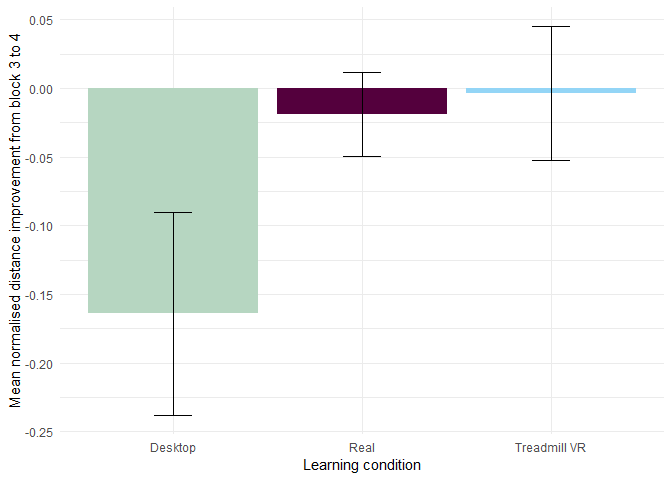
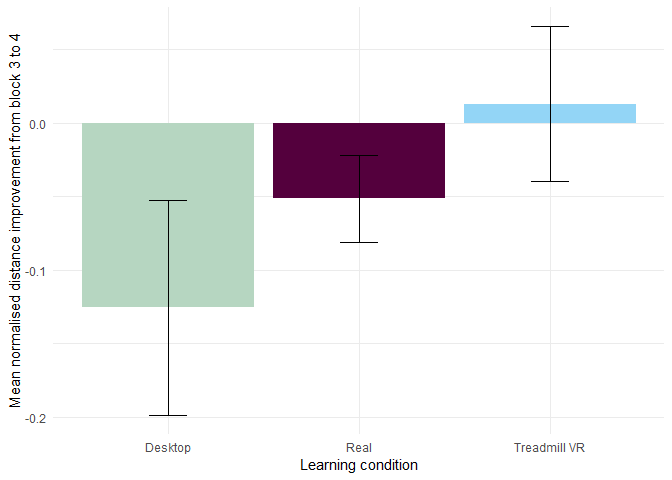
updates results

diff --git a/Report/paper-results.md b/Report/paper-results.md
@@ -9,7 +9,7 @@ Measures
 
 We calculated participants’ walked distance in the building, time spent in each task and number of incorrectly visited doors. The conditions were not perfectly comparable in their measured distance and time, with the VR trials taking a little bit longer in both time and distance than the real world condition. We therefore min-normalised the distance traveled and the time for each task and environment by dividing the measure by any participant's performance for that trial. We calculated all statistics on these normalised measures.
 
-There was no difference between conditions at the start of the experiment in normalised distance (*F*(2, 334)=2.11, *M**S**E* = 18.07, *p* = .123), nor in number errors (*F*(2, 363)=0.10, *M**S**E* = 64.52, *p* = .903), but there is a significant difference in normalised time (*F*(2, 363)=28.57, *M**S**E* = 24.22, *p* &lt; .001)), due to VR taking longer times to get used to (and therefore having longer normalised trial times at the start).
+There was no difference between conditions at the start of the experiment in normalised distance (*F*(2, 323)=1.99, *M**S**E* = 16.13, *p* = .139), nor in number errors (*F*(2, 363)=0.10, *M**S**E* = 64.52, *p* = .903), but there is a significant difference in normalised time (*F*(2, 363)=28.57, *M**S**E* = 24.22, *p* &lt; .001)), due to VR taking longer times to get used to (and therefore having longer normalised trial times at the start). We removed distance measurements larger than 3 standard deviations from the mean.
 
 Participants
 ------------
@@ -19,47 +19,49 @@ A total of 61 (M = 20.4, SD = 2.2) undergraduate students at UC Davis particiapt
 Results
 =======
 
-First we wanted to assess that there is going to be some level of transfer in all conditions. If we would assume no transfer to happen, we should observe same performance in the real world testing in 1st, 2nd and 3rd block after the switch to be similar in performance as the 1st, 2nd and 3rd block in the real world learning group. But all conditions (except desktop in distance) show better performance after the switch (see table XXX) than in the first trial, suggesting some level of transfer happening in all learning conditions.
+First we wanted to assess that there is going to be some level of transfer in all conditions. If we would assume no transfer to happen, we should observe same performance in the real world testing in 1st, 2nd and 3rd block after the switch to be similar in performance as the 1st, 2nd and 3rd block in the real world learning group. But all conditions show better performance after the switch (see table XXX) than in the first trial, suggesting some level of transfer happening in all learning conditions.
 
 | Learning condition | Distance improvement                                                         | Errors improvement                                                               |
 |:-------------------|:-----------------------------------------------------------------------------|:---------------------------------------------------------------------------------|
-| Real               | *M*<sub>*d*</sub> = 1.93, 95% CI \[1.19, 2.67\], *t*(20)=5.43, *p* &lt; .001 | *M*<sub>*d*</sub> = 13.55, 95% CI \[11.88, 15.22\], *t*(21)=16.87, *p* &lt; .001 |
-| Desktop            | *M*<sub>*d*</sub> = 1.09, 95% CI \[ − 0.10, 2.29\], *t*(18)=1.93, *p* = .070 | *M*<sub>*d*</sub> = 10.77, 95% CI \[8.18, 13.37\], *t*(18)=8.72, *p* &lt; .001   |
-| Treadmill VR       | *M*<sub>*d*</sub> = 2.49, 95% CI \[1.45, 3.53\], *t*(19)=5.00, *p* &lt; .001 | *M*<sub>*d*</sub> = 12.12, 95% CI \[10.62, 13.61\], *t*(19)=16.96, *p* &lt; .001 |
+| Real               | *M*<sub>*d*</sub> = 1.78, 95% CI \[1.18, 2.39\], *t*(20)=6.13, *p* &lt; .001 | *M*<sub>*d*</sub> = 13.55, 95% CI \[11.88, 15.22\], *t*(21)=16.87, *p* &lt; .001 |
+| Desktop            | *M*<sub>*d*</sub> = 1.52, 95% CI \[0.55, 2.49\], *t*(18)=3.30, *p* = .004    | *M*<sub>*d*</sub> = 10.77, 95% CI \[8.18, 13.37\], *t*(18)=8.72, *p* &lt; .001   |
+| Treadmill VR       | *M*<sub>*d*</sub> = 2.34, 95% CI \[1.29, 3.39\], *t*(19)=4.68, *p* &lt; .001 | *M*<sub>*d*</sub> = 12.12, 95% CI \[10.62, 13.61\], *t*(19)=16.96, *p* &lt; .001 |
 
-Looking at the progression in distance improvements and error improvements over the course of the experiment, we can see that all conditions show progressive improvement which is only hindered by the switch in the desktop learning condition (see fig. XXX and fig. XXX), but in the Treadmill condition we see constant improvement unobstructed by the environmrnt switch. ![](paper-results_files/figure-markdown_github/unnamed-chunk-3-1.png)![](paper-results_files/figure-markdown_github/unnamed-chunk-3-2.png)
+Looking at the progression in distance improvements and error improvements over the course of the experiment, we can see that all conditions show progressive improvement which is only hindered by the switch in the desktop learning condition (see fig. XXX and fig. XXX), but in the Treadmill condition we see constant improvement unobstructed by the environment switch. ![](paper-results_files/figure-markdown_github/unnamed-chunk-3-1.png)![](paper-results_files/figure-markdown_github/unnamed-chunk-3-2.png)
 
 Participant's performance in the first pre-switch phase shows different rates of learning rate, demonstrated by an interaction between block bumber and learning condition for error rate performance (see table XX).
+
+**this is a mixed model with id/block id random term. Significance was measuyred with Anova from car package, but I read it is not a good way to measure significance and we shouldn't even use significance in mixed models. I'll check on past cognition papers to see how and if they do it.**
 
 | Predictor                              | Significance for distance improvement | Significance for error improvement |
 |:---------------------------------------|:--------------------------------------|:-----------------------------------|
 | Intercept                              | p &lt; .001                           | p &lt; .001                        |
 | Block number                           | p &lt; .001                           | p &lt; .001                        |
-| Learning condition                     | p = 0.18                              | p = 0.65                           |
-| Block - Learning condition interaction | p = 0.72                              | p &lt; .001                        |
+| Learning condition                     | p = 0.25                              | p = 0.65                           |
+| Block - Learning condition interaction | p = 0.84                              | p &lt; .001                        |
 
 ### After modality switch performance change
 
-We found no significant difference between different modalities in distance performance before the switch (although are marginally significnat suggetsting there might be some difference) *F*(2, 321)=2.88, *M**S**E* = 4.24, *p* = .058, but the error rate in the pre-switch block differs across groups *F*(2, 363)=32.63, *M**S**E* = 22.37, *p* &lt; .001.
+We found significant difference between different modalities in the pre-switch block in distance performance *F*(2, 315)=4.18, *M**S**E* = 3.54, *p* = .016, and the error rate as well *F*(2, 363)=32.63, *M**S**E* = 22.37, *p* &lt; .001.
 
-After the modality switch, we can see a significant difference between distance performance (*F*(2, 295)=3.86, *M**S**E* = 5.50, *p* = .022) and errors as well (*F*(2, 363)=13.15, *M**S**E* = 19.79, *p* &lt; .001), with groups learning on the treadmill or desktop performing worse than those learning in the real world. This difference post-switch is still apparent in the 2nd block after the switch (block 5) in error rate *F*(2, 363)=6.75, *M**S**E* = 6.86, *p* = .001 and marginally in distance *F*(2, 256)=2.87, *M**S**E* = 0.37, *p* = .058. In the last testing block (block 6), we found no differences among the groups in either error rate *F*(2, 363)=1.67, *M**S**E* = 3.33, *p* = .191 nor distance *F*(2, 258)=1.95, *M**S**E* = 0.28, *p* = .144.
+After the modality switch, we can see a significant difference between groups in distance performance (*F*(2, 289)=4.04, *M**S**E* = 2.94, *p* = .019) and errors as well (*F*(2, 363)=13.15, *M**S**E* = 19.79, *p* &lt; .001), with groups learning on the treadmill or desktop performing worse than those learning in the real world. This between group difference is still present in the 2nd block of the second phase (block 5) in error rate *F*(2, 363)=6.75, *M**S**E* = 6.86, *p* = .001 and marginally in distance *F*(2, 253)=5.74, *M**S**E* = 0.18, *p* = .004. In the last testing block (block 6), we found no differences among the groups in either error rate *F*(2, 363)=1.67, *M**S**E* = 3.33, *p* = .191 nor distance *F*(2, 255)=3.21, *M**S**E* = 0.10, *p* = .042.
 
 Mixed effect models with individual random effect show significant effect of the of the learning condition on rate of improvement from pre-switch to post-switch block (See table XXX ).
 
 | Predictor                              | Significance for distance improvement | Significance for error improvement |
 |:---------------------------------------|:--------------------------------------|:-----------------------------------|
-| Intercept                              | p = 0.4                               | p &lt; .001                        |
-| Block number                           | p &lt; .001                           | p &lt; .0.05                       |
-| Learning condition                     | p = 0.08                              | p &lt; .001                        |
-| Block - Learning condition interaction | p = 0.05                              | p &lt; .001                        |
+| Intercept                              | p = 0.73                              | p &lt; .001                        |
+| Block number                           | p = 0.07                              | p &lt; .0.05                       |
+| Learning condition                     | p = 0.17                              | p &lt; .001                        |
+| Block - Learning condition interaction | p = 0.22                              | p &lt; .001                        |
 
 Running separate pairwise t-tests to see individual performance change from pre-switch to post-switch block, we see significant improvement in errors made across all conditions, and marginally significant worsening in distance performance in the desktop condition.
 
 | Learning condition | Distance improvement                                                             | Errors improvement                                                           |
 |:-------------------|:---------------------------------------------------------------------------------|:-----------------------------------------------------------------------------|
-| Real               | *M*<sub>*d*</sub> = −0.02, 95% CI \[ − 0.26, 0.23\], *t*(21)= − 0.16, *p* = .876 | *M*<sub>*d*</sub> = 0.64, 95% CI \[0.12, 1.17\], *t*(21)=2.56, *p* = .018    |
-| Desktop            | *M*<sub>*d*</sub> = −1.13, 95% CI \[ − 2.29, 0.02\], *t*(18)= − 2.06, *p* = .054 | *M*<sub>*d*</sub> = 1.35, 95% CI \[0.19, 2.52\], *t*(18)=2.44, *p* = .025    |
-| Treadmill VR       | *M*<sub>*d*</sub> = −0.03, 95% CI \[ − 0.59, 0.53\], *t*(19)= − 0.11, *p* = .910 | *M*<sub>*d*</sub> = 3.34, 95% CI \[2.17, 4.51\], *t*(19)=5.97, *p* &lt; .001 |
+| Real               | *M*<sub>*d*</sub> = −0.15, 95% CI \[ − 0.41, 0.12\], *t*(21)= − 1.17, *p* = .256 | *M*<sub>*d*</sub> = 0.64, 95% CI \[0.12, 1.17\], *t*(21)=2.56, *p* = .018    |
+| Desktop            | *M*<sub>*d*</sub> = −0.70, 95% CI \[ − 1.53, 0.12\], *t*(18)= − 1.79, *p* = .090 | *M*<sub>*d*</sub> = 1.35, 95% CI \[0.19, 2.52\], *t*(18)=2.44, *p* = .025    |
+| Treadmill VR       | *M*<sub>*d*</sub> = 0.04, 95% CI \[ − 0.55, 0.63\], *t*(19)=0.16, *p* = .877     | *M*<sub>*d*</sub> = 3.34, 95% CI \[2.17, 4.51\], *t*(19)=5.97, *p* &lt; .001 |
 
 We can see that all participants improved in the errors made, but neigher group is significantly worse in the post-switch block in the path travelled (although participants who learned on the desktop performed slightly worse, the significance is only marginal).
 
@@ -69,7 +71,7 @@ To assess the level of performance change form directly before and after the swi
 
 ![](paper-results_files/figure-markdown_github/unnamed-chunk-7-1.png)![](paper-results_files/figure-markdown_github/unnamed-chunk-7-2.png)
 
-Comparing the perfomance change in different conditions using ANOVA, we see marginally significant difference between groups in the distance improvement (*F*(2, 58)=2.77, *M**S**E* = 0.06, *p* = .071), but significant differences in error rate improvement (*F*(2, 49)=6.72, *M**S**E* = 0.13, *p* = .003). This is consistent with the mixed model result which poited at interaction between block and learning condition.
+Comparing the perfomance change in different conditions using ANOVA, we see marginally significant difference between groups in the distance improvement (*F*(2, 58)=1.64, *M**S**E* = 0.06, *p* = .202), but significant differences in error rate improvement (*F*(2, 49)=6.72, *M**S**E* = 0.13, *p* = .003). This is consistent with the mixed model result which poited at interaction between block and learning condition.
 
 Tukey post-hoc tests show significant difference between error rate improvement between the group that learned in the real world and that which learned on the desktop.
 
@@ -81,14 +83,25 @@ Tukey post-hoc tests show significant difference between error rate improvement 
 
 ### Improvement from the pre-switch block to the final block
 
-Assuming the performance platoes around the 6the block, looking at participants performance in the pre-switch block and the last block we can deduce what margin of improvement is still possible. We see that participants learning in the real world no longer improve in error rate *t*(21)=1.26, *p* = .223, but they are continuously imrpoving in distance performance *t*(21)=2.22, *p* = .037.
+Assuming the performance platoes around the 6the block, looking at participants performance in the pre-switch block and the last block we can deduce what margin of improvement is still possible. We see that participants learning in the real world no longer improve in error rate after the 3rd block *t*(21)=1.26, *p* = .223, but they are continuously improving in distance performance *t*(21)=2.88, *p* = .009.
+
+*Not sure about the mixed models here. I think they are OK, but I haven't published anything with them before*
+
+Looking at the linear mixed model prediction for the distnace and error improvement in the second phase (post-switch), we can see that both learning condition and
+
+| Predictor                              | Significance for distance improvement | Significance for error improvement |
+|:---------------------------------------|:--------------------------------------|:-----------------------------------|
+| Intercept                              | p &lt; .001                           | p &lt; .001                        |
+| Block number                           | p &lt; .001                           | p &lt; .001                        |
+| Learning condition                     | p &lt; .001                           | p &lt; .001                        |
+| Block - Learning condition interaction | p &lt; .0.05                          | p &lt; .001                        |
 
 ### Something about pointing?
 
 Summary
 -------
 
-We can see different rates of learning speed across different conditions, with significan differences between groups in their performance after the first phase with the real world learning group performing the best, but only significanly different from group learning on the desktop. All conditions show some level of transfer, demonstrated both by general improvement from the first block to the fourth, as well as decreased errors in desktop and treadmill VR group after the switch to the real environment. All groups get to the same level of performance after the three blocks post switch in the real world, not differing in errors made nor distance. But we also observed that whilst real world training leads to almost perfect performance in the 3rd block, not differing from the last block in error rate and only slightly in distance, it takes another three blocks of learning in the real world for the groups which learned on the treadmill or the desktop to achieve same performance.
+We can see different rates of learning speed across different conditions, with significant differences between groups in their performance in the post-switch block. Participants learning in the real world are performing the best after the switch, but only significanly different from the group learning on the desktop. All conditions show some level of transfer, demonstrated both by general improvement from the first block to the fourth, as well as decreased errors in desktop and treadmill VR group after the switch to the real environment. All groups get to the same level of performance after the three blocks post-switch moving in the real world, not differing in errors made nor in distance in the last block. But we also observed that whilst real world training leads to almost perfect performance in the pre-switch block, not differing from the last block in error rate and only slightly in distance. It takes another 3 blocks in the real world for the groups which learned on the treadmill or the desktop to achieve same performance, again pointing to qualitative difference between different modalities.
 
 *I am unsure if it is worth adding the rest of the dataset in (the VR - VR and real - VR groups), but the performance of Treadmill VR groups in the distance traveled gets exactly to the same level as the real world performance in the 6th block (so the VR - VR group performs the same after the 6 blocks as VR - real and real - VR). Which is nice comparison to the results we get here about the distance performance in the real world being almost perfect in the 3rd block and the rest of the groups slowly "getting there".*
 
